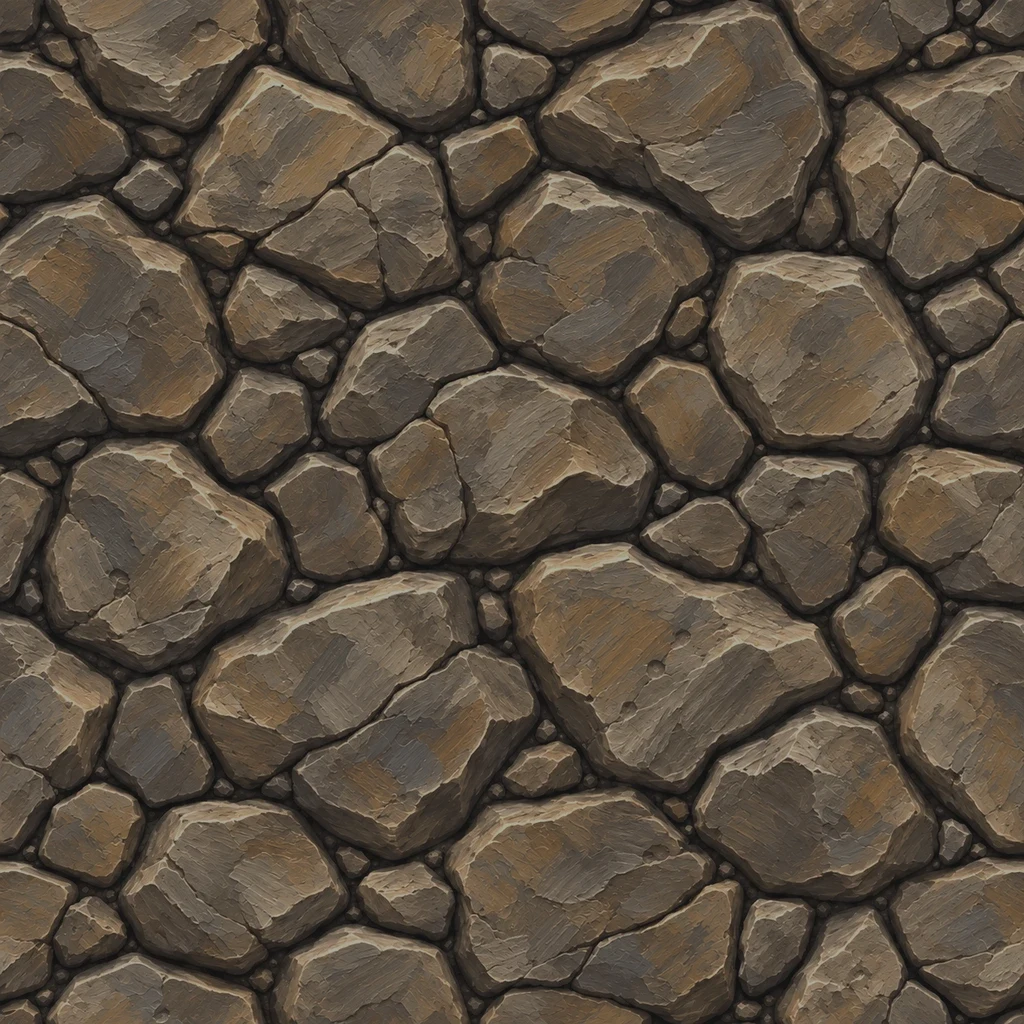
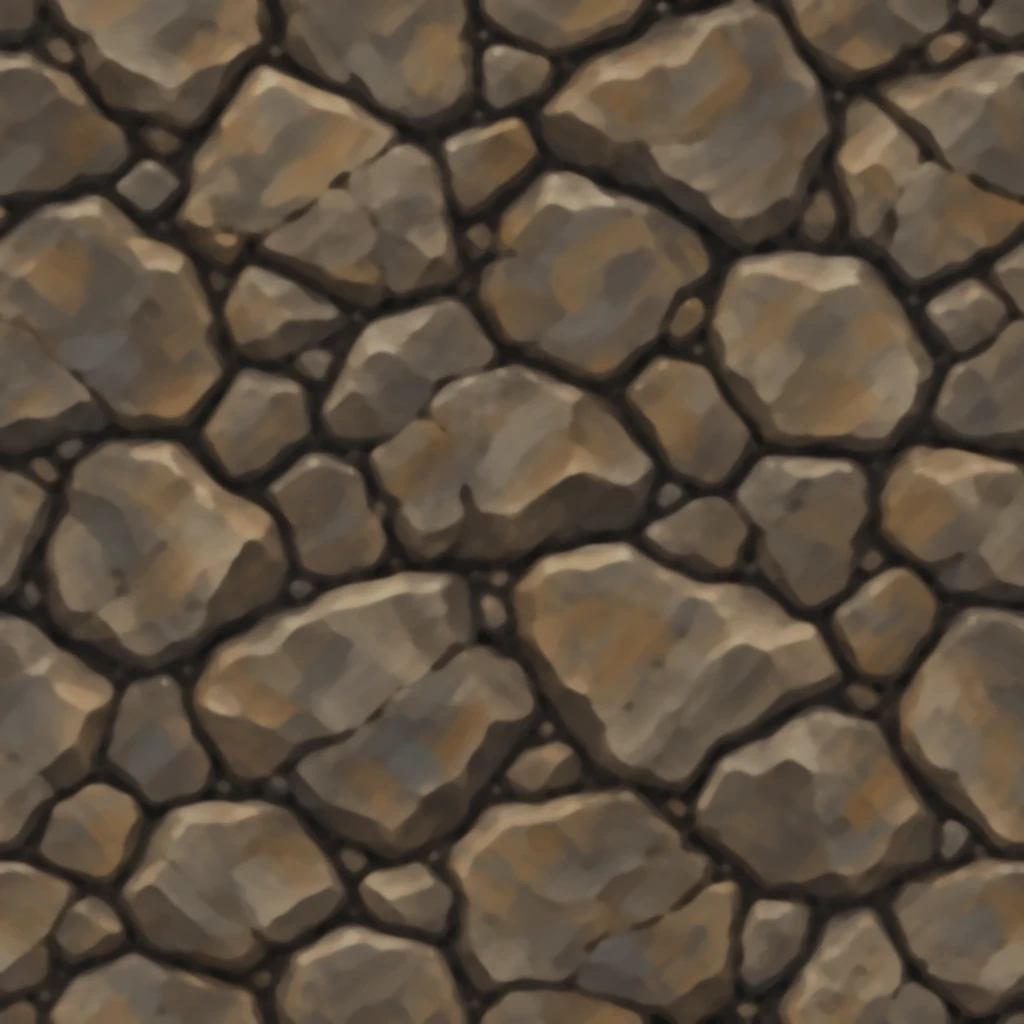
壁の高さの初期値を高いに／床の情報量を減らす（細部を平滑化、石板を大きく）
Claude-Session: https://claude.ai/code/session_01DsFqqH5JPpd1Xoeugvxe2g

diff --git a/index.html b/index.html
@@ -1050,7 +1050,7 @@ let zoomPref = 0;                 // 表示サイズ：0=自動 1=小(32) 2=中(
 let charPref = 2;                 // キャラの大きさ：マスの何倍で描くか（マスから上と左右にはみ出す。マス自体は大きくならない）
 const CHAR_K = [1, 1.3, 1.5, 1.8, 2.1];
 let showGrid = false;             // 町の当たり判定の表示（絵とのズレ確認用）
-let wallPref = 1;                 // 壁の高さ：0=従来 1=高め 2=高い（洞窟）
+let wallPref = 2;                 // 壁の高さ：0=従来 1=高め 2=高い（洞窟）
 let moodPref = 0;                 // 光の雰囲気：0=従来 1=標準（暗さ・ビネット・松明のゆらぎ） 2=濃い
 let shadePref = 1;                // 陰影（立体感）：0=なし 1=標準 2=強
 const SHADE_K = [0, 1, 1.6];
@@ -1127,7 +1127,7 @@ function loadGame() {
     rigPref = [0, 1].includes(s.rigPref) ? s.rigPref : 0;
     shadePref = [0, 1, 2].includes(s.shadePref) ? s.shadePref : 1;
     moodPref = [0, 1, 2].includes(s.moodPref) ? s.moodPref : 0;
-    wallPref = [0, 1, 2].includes(s.wallPref) ? s.wallPref : 1;
+    wallPref = [0, 1, 2].includes(s.wallPref) ? s.wallPref : 2;
     vfxPref = [0, 1, 2].includes(s.vfxPref) ? s.vfxPref : 1;
     logPos = [0, 1].includes(s.logPos) ? s.logPos : 1;
     return true;

diff --git a/assets/cave-terrain.js b/assets/cave-terrain.js
@@ -25,7 +25,7 @@
  // Optional seamless sheet (floorW): each floor cell shows its own slice of one
  // continuous picture, so large slabs run across tiles with no per-tile repeat.
  // The sheet repeats every WORLD_N cells; the stairs keep their own patch.
- const WORLD_N=3;
+ const WORLD_N=6;
  const WORLD_CAP=new Set(['limestone']),CAP_N=4;
  state.worldCap=WORLD_CAP;
  function ground(g,px,py,size,h,id,x=0,y=0,variant=0){

diff --git a/docs/HANDOVER.md b/docs/HANDOVER.md
@@ -4,6 +4,7 @@
 
 ## 1. 結論（いまの状態）
 
+- **壁の高さ＝高い を初期値に採用／床の情報量を減らした（2026-10-24、`fix/floor-simple`）**：実機の感想＝壁・天井の方式はOK、床は情報量が多すぎ。床の絵 `floorW.webp` に中央値フィルタ（13）＋ぼかしで筆跡・細かい凹凸を消し、`cave-terrain.js` の `WORLD_N` を 3→6（1マスに石板約1枚）に。根本対応は、石が少なく面が平らな床を外部AIで作り直すこと（プロンプトは会話履歴）。他4ロケーションの床は最初から「石板は大きく少なく、面は平ら、コントラスト控えめ」で作る。
 - **床の主張を弱めた（2026-10-24、`fix/floor-calm`）**：鍾乳洞の床 `floorW.webp` を彩度×0.72・コントラスト×0.78・明るさ×0.80に調整（元の絵は git 履歴にある）。床・壁・天井の境目を見分けやすくするため。壁と天井の絵・方式は変更なし。実機の感触は未確認。次：他4ロケーションの3点セット（床は最初から控えめに作る：プロンプトに「コントラスト控えめ、壁より暗く彩度低め」を足す）。
 - **確認用の入口（2026-10-24、`feat/debug-floor-param`）**：`index.html?floor=2` でその階から始まる（`&dungeon=first|second|third` で洞窟も指定、全洞窟を解放扱い）。保存は読み出し専用のコピーに向けるので、プレイ用のセーブ・冒険の途中保存には書き込まれない（`index.html` 先頭の小さな script ＋ 末尾の `boot()` 直後）。外すときはその2か所と `unlocked` の `window.__previewFloor` を消す。階→地形：1樹林・2鍾乳洞・3風化遺跡・4氷晶洞・5火山洞・6根絡みの古庭（以降くり返し）。
 - **壁の高さ（2026-10-24、`feat/wall-height`）**：設定「壁の高さ（洞窟）」＝従来／高め／高い（初期は高め）。`cave-terrain.js` の `HEIGHTS`（[部屋に面した壁, 内側の岩]＝従来[28,70]、高め[44,100]、高い[60,130]）。絵のサイズは壁の高さに合わせて可変（`OFF`＝上の余白）。いつでも元に戻せる：設定で「従来」、または該当 PR を revert。`index.html` の描画範囲は上に1行ぶん広げた。実機の感触は未確認。次：他4ロケーションの床・壁・天面を同じ画風で作る（鍾乳洞で当たりなら Skill 化を検討）。
